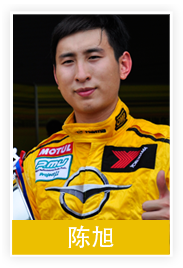
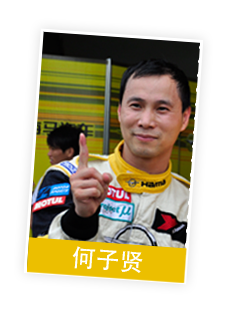
star driver

diff --git a/Haima/Controllers/ChampionViewController.m b/Haima/Controllers/ChampionViewController.m
@@ -27,71 +27,72 @@
 
 - (id)init
 {
-    //
-    // initialize view controllers
-    //
-    CtccIntroViewController *vc1 = [[[CtccIntroViewController alloc] init] autorelease];
-    
-    ChampionRouteViewController *vc2 = [[[ChampionRouteViewController alloc] init] autorelease];
-    
-    ChampionRoadViewController *vc3 = [[[ChampionRoadViewController alloc] init] autorelease];
-    
-    StarDriverViewController *vc4 = [[[StarDriverViewController alloc] init] autorelease];
-    
-    UIViewController *detailController5 = [[[UIViewController alloc] init] autorelease];
-    detailController5.view.backgroundColor = [UIColor yellowColor];
-    
-    UIViewController *detailController6 = [[[UIViewController alloc] init] autorelease];
-    detailController6.view.backgroundColor = [UIColor magentaColor];
-    
-    self.viewControllerItems = [NSArray arrayWithObjects:
-                                [NSDictionary dictionaryWithObjectsAndKeys:
-                                 @"CTCC介绍", @"title",
-                                 vc1, @"viewController",
-                                 NSStringFromCGRect(CGRectMake(345, 67, 90, 40)), @"frame",
-                                 nil],
-                                [NSDictionary dictionaryWithObjectsAndKeys:
-                                 @"7年CTCC征程", @"title",
-                                 vc2, @"viewController",
-                                 NSStringFromCGRect(CGRectMake(445, 67, 110, 40)), @"frame",
-                                 nil],
-                                [NSDictionary dictionaryWithObjectsAndKeys:
-                                 @"夺冠之路", @"title",
-                                 vc3, @"viewController",
-                                 NSStringFromCGRect(CGRectMake(562, 67, 74, 40)), @"frame",
-                                 nil],
-                                [NSDictionary dictionaryWithObjectsAndKeys:
-                                 @"四大车手", @"title",
-                                 vc4, @"viewController",
-                                 NSStringFromCGRect(CGRectMake(637, 67, 85, 40)), @"frame",
-                                 nil],
-                                [NSDictionary dictionaryWithObjectsAndKeys:
-                                 @"精彩视频", @"title",
-                                 detailController5, @"viewController",
-                                 NSStringFromCGRect(CGRectMake(723, 67, 80, 40)), @"frame",
-                                 nil],
-                                [NSDictionary dictionaryWithObjectsAndKeys:
-                                 @"图片欣赏", @"title",
-                                 detailController6, @"viewController",
-                                 NSStringFromCGRect(CGRectMake(808, 67, 90, 40)), @"frame",
-                                 nil],
-                                nil];
-    
-    //
-    // setup ui components
-    //
-    int tag = 0;
-    for (NSDictionary *dict in self.viewControllerItems) {
-        UIButton *button = [UIButton buttonWithType:UIButtonTypeCustom];
-        button.tag = tag++;
-        button.frame = CGRectFromString([dict objectForKey:@"frame"]);
-        [button setTitle:[dict objectForKey:@"title"] forState:UIControlStateNormal];
-        [button setTitleColor:[UIColor darkTextColor] forState:UIControlStateNormal];
-        [button.titleLabel setFont:[UIFont systemFontOfSize:15]];
-        [button addTarget:self action:@selector(tabTapped:) forControlEvents:UIControlEventTouchUpInside];
-        [self.view addSubview:button];
+    if (self = [super init]) {
+        //
+        // initialize view controllers
+        //
+        CtccIntroViewController *vc1 = [[[CtccIntroViewController alloc] init] autorelease];
+        
+        ChampionRouteViewController *vc2 = [[[ChampionRouteViewController alloc] init] autorelease];
+        
+        ChampionRoadViewController *vc3 = [[[ChampionRoadViewController alloc] init] autorelease];
+        
+        StarDriverViewController *vc4 = [[[StarDriverViewController alloc] init] autorelease];
+        
+        UIViewController *detailController5 = [[[UIViewController alloc] init] autorelease];
+        detailController5.view.backgroundColor = [UIColor yellowColor];
+        
+        UIViewController *detailController6 = [[[UIViewController alloc] init] autorelease];
+        detailController6.view.backgroundColor = [UIColor magentaColor];
+        
+        self.viewControllerItems = [NSArray arrayWithObjects:
+                                    [NSDictionary dictionaryWithObjectsAndKeys:
+                                     @"CTCC介绍", @"title",
+                                     vc1, @"viewController",
+                                     NSStringFromCGRect(CGRectMake(345, 67, 90, 40)), @"frame",
+                                     nil],
+                                    [NSDictionary dictionaryWithObjectsAndKeys:
+                                     @"7年CTCC征程", @"title",
+                                     vc2, @"viewController",
+                                     NSStringFromCGRect(CGRectMake(445, 67, 110, 40)), @"frame",
+                                     nil],
+                                    [NSDictionary dictionaryWithObjectsAndKeys:
+                                     @"夺冠之路", @"title",
+                                     vc3, @"viewController",
+                                     NSStringFromCGRect(CGRectMake(562, 67, 74, 40)), @"frame",
+                                     nil],
+                                    [NSDictionary dictionaryWithObjectsAndKeys:
+                                     @"四大车手", @"title",
+                                     vc4, @"viewController",
+                                     NSStringFromCGRect(CGRectMake(637, 67, 85, 40)), @"frame",
+                                     nil],
+                                    [NSDictionary dictionaryWithObjectsAndKeys:
+                                     @"精彩视频", @"title",
+                                     detailController5, @"viewController",
+                                     NSStringFromCGRect(CGRectMake(723, 67, 80, 40)), @"frame",
+                                     nil],
+                                    [NSDictionary dictionaryWithObjectsAndKeys:
+                                     @"图片欣赏", @"title",
+                                     detailController6, @"viewController",
+                                     NSStringFromCGRect(CGRectMake(808, 67, 90, 40)), @"frame",
+                                     nil],
+                                    nil];
+        
+        //
+        // setup ui components
+        //
+        int tag = 0;
+        for (NSDictionary *dict in self.viewControllerItems) {
+            UIButton *button = [UIButton buttonWithType:UIButtonTypeCustom];
+            button.tag = tag++;
+            button.frame = CGRectFromString([dict objectForKey:@"frame"]);
+            [button setTitle:[dict objectForKey:@"title"] forState:UIControlStateNormal];
+            [button setTitleColor:[UIColor darkTextColor] forState:UIControlStateNormal];
+            [button.titleLabel setFont:[UIFont systemFontOfSize:15]];
+            [button addTarget:self action:@selector(tabTapped:) forControlEvents:UIControlEventTouchUpInside];
+            [self.view addSubview:button];
+        }
     }
-    
     return self;
 }
 

diff --git a/Haima/Controllers/StarDriverViewController.m b/Haima/Controllers/StarDriverViewController.m
@@ -14,10 +14,28 @@
 {
     [super loadView];
     
-    UIImageView *view = [[UIImageView alloc] initWithFrame:CGRectMake(0, 0, 1024, 570)];
-    view.image = [UIImage imageNamed:@"star-driver-bg"];
-    [self.view addSubview:view];
-    [view release];
+    NSArray *array = [NSArray arrayWithObjects:NSStringFromCGRect(CGRectMake(68, 54, 224, 312)),
+                      NSStringFromCGRect(CGRectMake(230, 25, 226, 312)),
+                      NSStringFromCGRect(CGRectMake(404, 80, 214, 284)), nil];
+    for (int i=0; i<array.count; i++) {
+        UIButton *button = [[[UIButton alloc] initWithFrame:CGRectFromString([array objectAtIndex:i])] autorelease];
+        button.tag = i;
+        [button setImage:[UIImage imageNamed:[NSString stringWithFormat:@"star-driver-%d", i+1]] forState:UIControlStateNormal];
+        [button setImage:[UIImage imageNamed:[NSString stringWithFormat:@"star-driver-%d", i+1]] forState:UIControlStateSelected];
+        [button setImage:[UIImage imageNamed:[NSString stringWithFormat:@"star-driver-%d", i+1]] forState:UIControlStateHighlighted];
+        [button addTarget:self action:@selector(switchDriverInfo:) forControlEvents:UIControlEventTouchUpInside];
+        [self.view addSubview:button];
+    }
+    
+    UIImageView *info = [[[UIImageView alloc] initWithFrame:CGRectMake(571, 20, 395, 410)] autorelease];
+    info.tag = 4;
+    info.image = [UIImage imageNamed:@"star-driver-info-bg"];
+    [self.view addSubview:info];
+    
+//    UIImageView *view = [[UIImageView alloc] initWithFrame:CGRectMake(0, 0, 1024, 570)];
+//    view.image = [UIImage imageNamed:@"star-driver-bg"];
+//    [self.view addSubview:view];
+//    [view release];
     
 //    int x = 121;
 //    int y = 219;
@@ -32,9 +50,22 @@
 //    }
 }
 
-- (void)starDriverClicked:(UIButton *)button {
-    NSLog(@"click: %d", button.tag);
+- (void)switchDriverInfo:(UIButton *)button {
+    [self.view bringSubviewToFront:button];
+    for (int i=0; i<3; i++) {
+        UIButton *btn = (UIButton *)[self.view viewWithTag:i];
+        btn.alpha = 0.5;
+    }
+    button.alpha = 1;
 }
+
+- (void)viewDidLoad {
+    [super viewDidLoad];
+    
+    UIButton *button = (UIButton *)[self.view viewWithTag:0];
+    [self switchDriverInfo:button];
+}
+
 
 - (void)dealloc
 {
